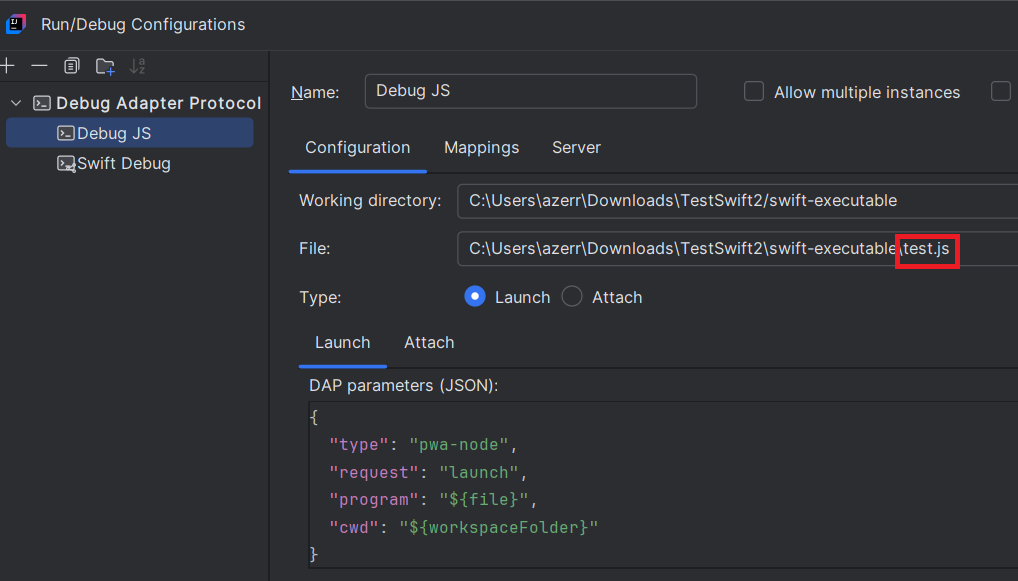
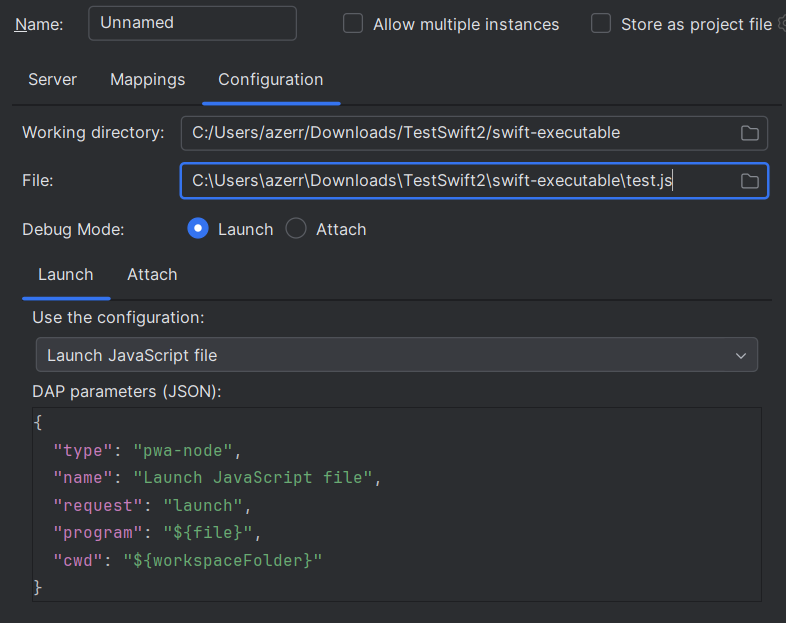
docs: synchronize DAP page root images with the new UI

diff --git a/docs/dap/DAP.md b/docs/dap/DAP.md
@@ -16,17 +16,17 @@ Here is an example with `JavaScript debugging`, which uses the [VSCode JS Debug 
 
 To configure debugging with DAP, you need to fill in:
 
-- The `Configuration` tab to specify the working directory and the file you want to run/debug:
+- The `Server` tab to specify the DAP server:
 
-  ![DAP Configuration Type/Configuration](./images/DAP_config_type_configuration.png)
+  ![DAP Configuration Type/Server](./images/DAP_config_type_server.png)
 
 - The `Mappings` tab to specify the files which can be debugged to allow adding/removing breakpoints:
 
 ![DAP Configuration Type/Mappings](./images/DAP_config_type_mappings.png)
 
-- The `Server` tab to specify the DAP server:
- 
-  ![DAP Configuration Type/Server](./images/DAP_config_type_server.png)
+- The `Configuration` tab to specify the working directory and the file you want to run/debug:
+
+  ![DAP Configuration Type/Configuration](./images/DAP_config_type_configuration.png)
 
 ## Inline value
 
@@ -68,11 +68,21 @@ You should edit the variable:
 the edit apply will consume the
 [SetVariable request](https://microsoft.github.io/debug-adapter-protocol//specification.html#Requests_SetVariable):
 
-# Contextual Menu
+## Contextual Menu
 
 Click on right button open existing / new DAP run configuration:
 
 ![Run/Debug menu](images/DAP_contextual_menu.png)
+
+## DAP server traces
+
+If you wish to show DAP request/response traces when you will debug:
+
+![Show DAP traces](./images/vscode-js-debug/traces_in_console.png)
+
+you need to select `Trace` with `verbose`.
+
+![Set verbose traces](./images/vscode-js-debug/set_traces.png)
 
 ## Templates
 
